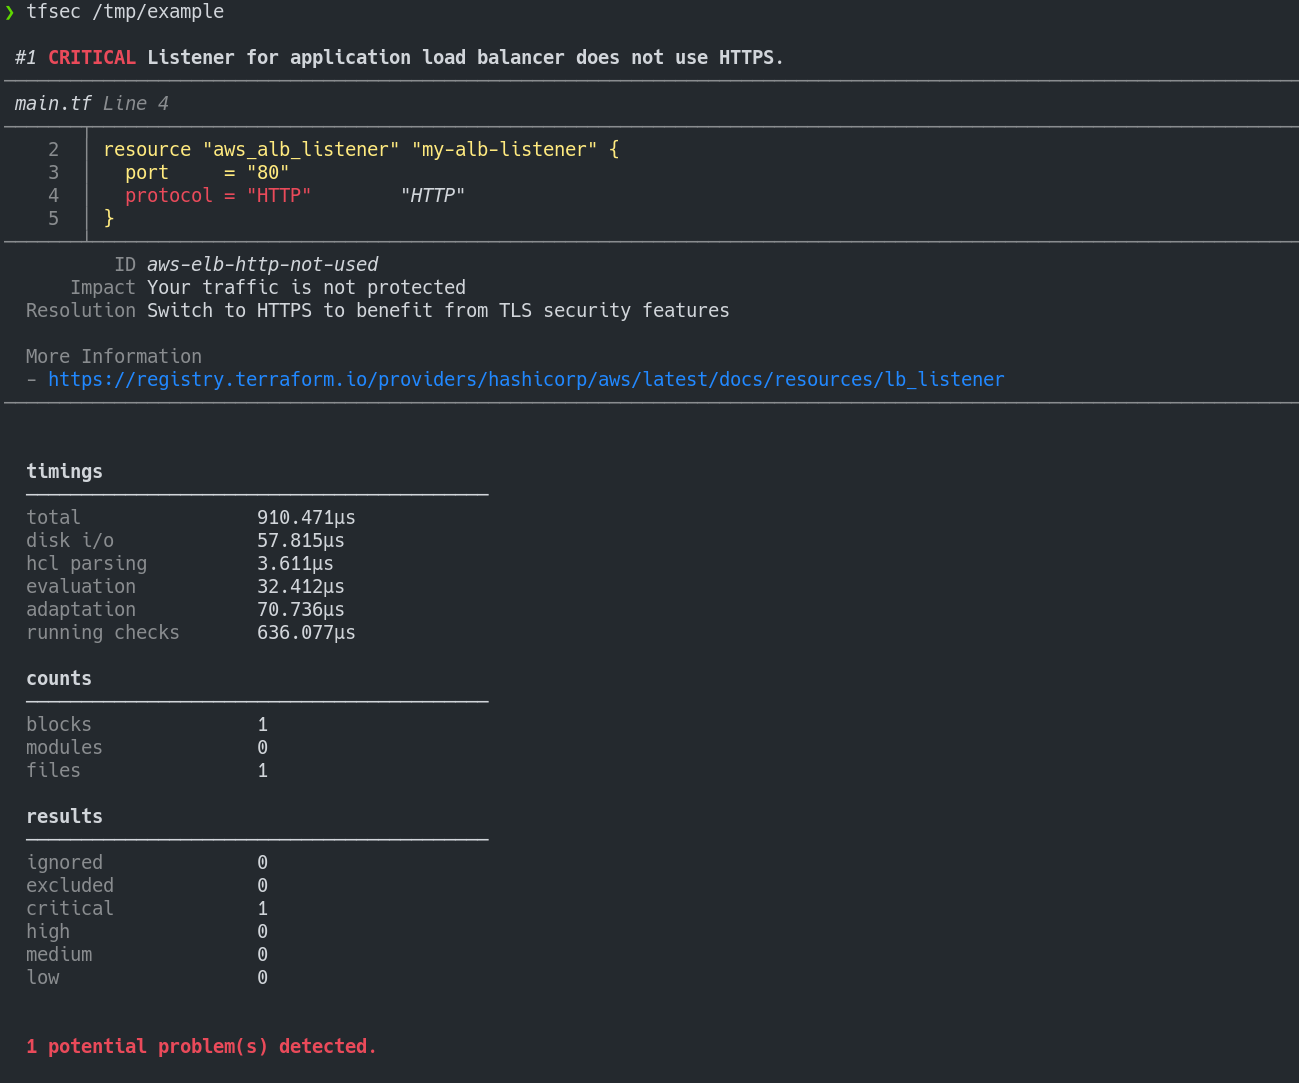
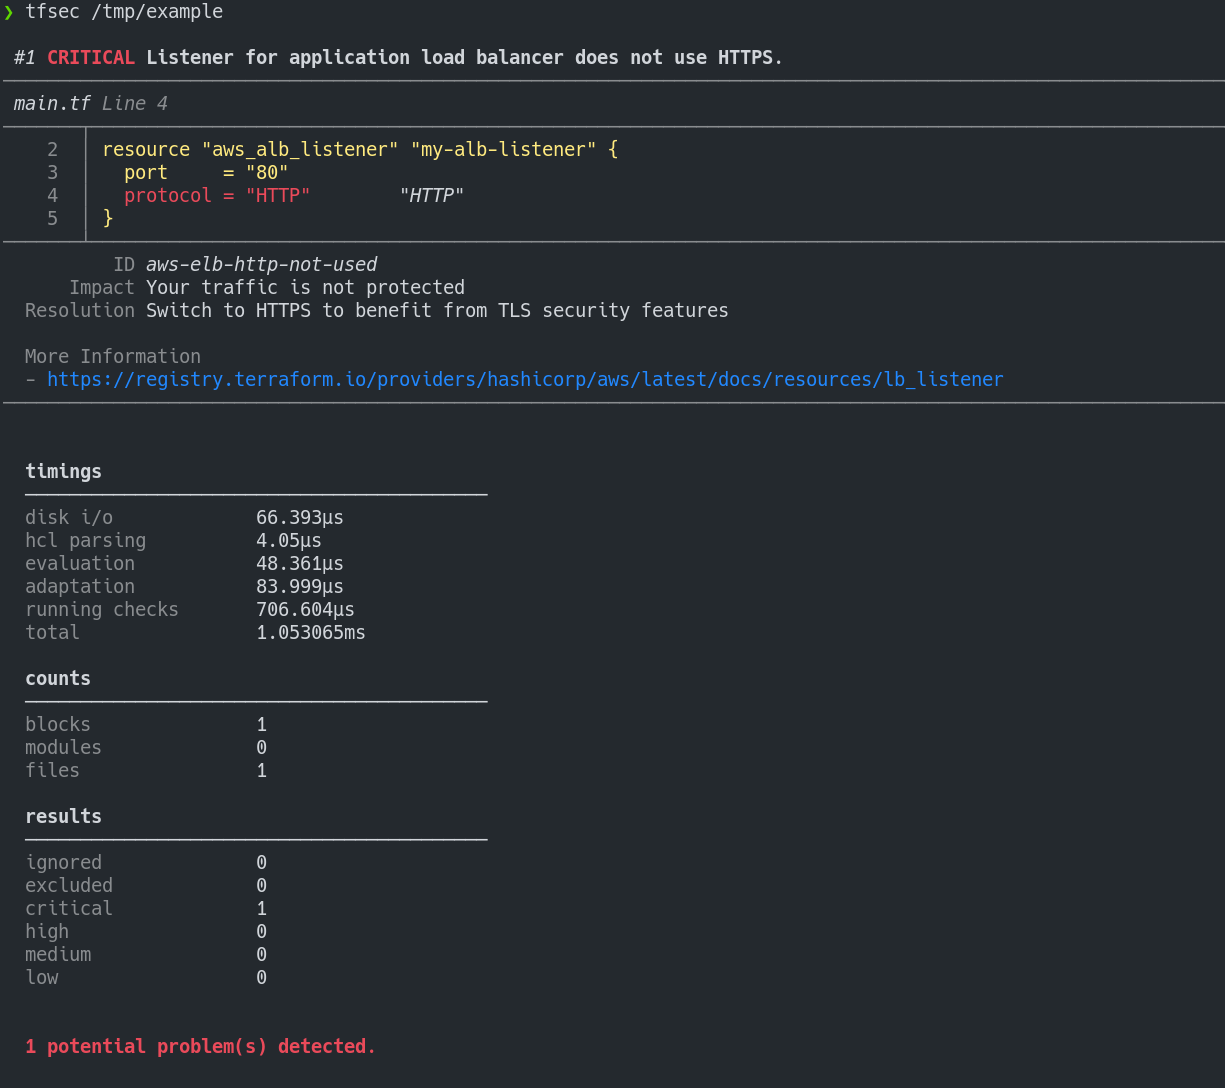
update defsec with total ordered

diff --git a/vendor/github.com/aquasecurity/defsec/formatters/formatter.go b/vendor/github.com/aquasecurity/defsec/formatters/formatter.go
@@ -85,7 +85,14 @@ func (b *base) PrintMetrics() {
 	for _, category := range categories {
 		tml.Fprintf(b.Writer(), "  <bold>%s</bold>\n  %s\n", category.Name(), strings.Repeat("─", 42))
 		for _, metric := range category.Metrics() {
-			_ = tml.Fprintf(b.Writer(), "  <dim>%-20s</dim> %s\n", metric.Name(), metric.Value())
+			if metric.Name() != "total" {
+				_ = tml.Fprintf(b.Writer(), "  <dim>%-20s</dim> %s\n", metric.Name(), metric.Value())
+			}
+		}
+		for _, metric := range category.Metrics() {
+			if metric.Name() == "total" {
+				_ = tml.Fprintf(b.Writer(), "  <dim>%-20s</dim> %s\n", metric.Name(), metric.Value())
+			}
 		}
 		fmt.Fprintf(b.Writer(), "\n")
 	}
